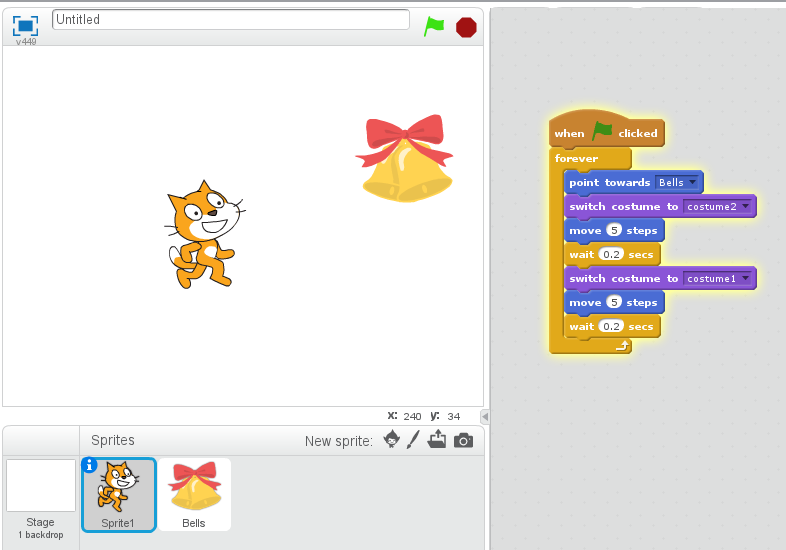
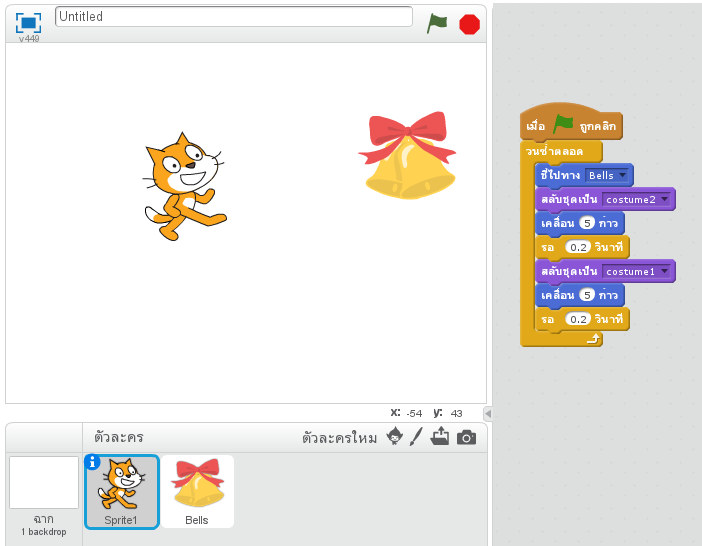
mentions that scratch has Thai translation

Changed region(s): [[0.0, 0.0, 1.0, 1.0], [0.0, 0.7784, 0.359, 1.0], [0.2094, 0.2491, 0.3291, 0.5293]]

diff --git a/README.md b/README.md
@@ -49,6 +49,7 @@
   * ScratchJr: [http://www.scratchjr.org/](http://www.scratchjr.org/)
 * Platform: Scratch เป็นระบบบนเว็บ (ใช้ Flash)  ส่วน ScratchJr เป็นระบบบนแทบเล็ต
 * ลักษณะเด่น:
+  * มีการแปลคำสั่งแบบบล็อคเป็นภาษาไทย
   * เขียนโปรแกรมควบคุมตัวละครให้ทำงานต่าง ๆ รวมทั้งสามารถเปลี่ยนรูปร่างตัวละครให้เป็นภาพเคลื่อนไหวได้ง่าย
   * สามารถประยุกต์ได้หลากหลาย และในเว็บ [Scratch](https://scratch.mit.edu/) มีโครงงานต่าง ๆ ที่แชร์ไว้จำนวนมาก สามารถโหลดไปศึกษาและแก้ไขได้
 * ลักษณะโปรแกรม: เขียนด้วยการลากวางบล็อค
@@ -56,7 +57,7 @@
 
 #### รูปตัวอย่างหน้าจอการเรียน
 * ตัวอย่างหน้าจอหลักของ Scratch ในจอแสดงตัวละครหนึ่งตัว คำแนะนำการหัดเขียนจะอยู่คอลัมน์ด้านขวามือ ![ตัวอย่างหน้าจอหลัก](images/scratch/scratch-main.png)
-* ตัวอย่างโปรแกรมเขียนให้แมวค่อย ๆ เดินไปหากระดิ่ง พร้อม ๆ กับเปลี่ยนรูปร่างไปมาให้ดูคล้ายภาพเคลื่อนไหว ![ตัวอย่างโปรแกรม](images/scratch/sample-script-follow-bells.png)
+* ตัวอย่างโปรแกรมเขียนให้แมวค่อย ๆ เดินไปหากระดิ่ง พร้อม ๆ กับเปลี่ยนรูปร่างไปมาให้ดูคล้ายภาพเคลื่อนไหว สังเกตว่าคำสั่งเป็นภาษาไทย ![ตัวอย่างโปรแกรม](images/scratch/sample-script-follow-bells.png)
 
 ### 3. [Snap!](http://snap.berkeley.edu/)
 
